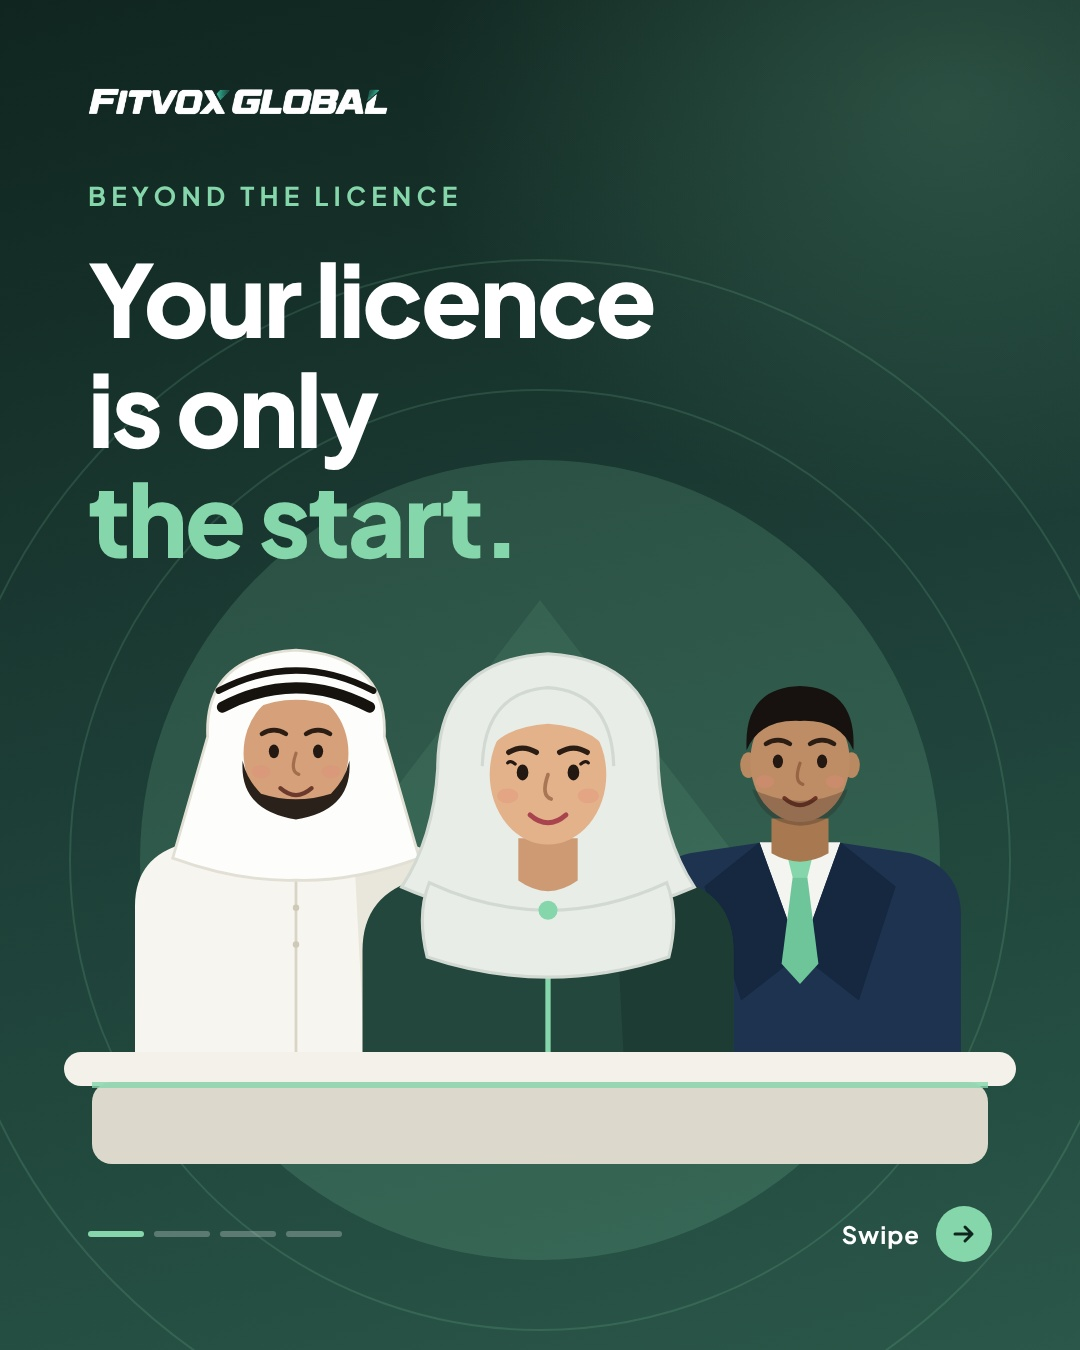
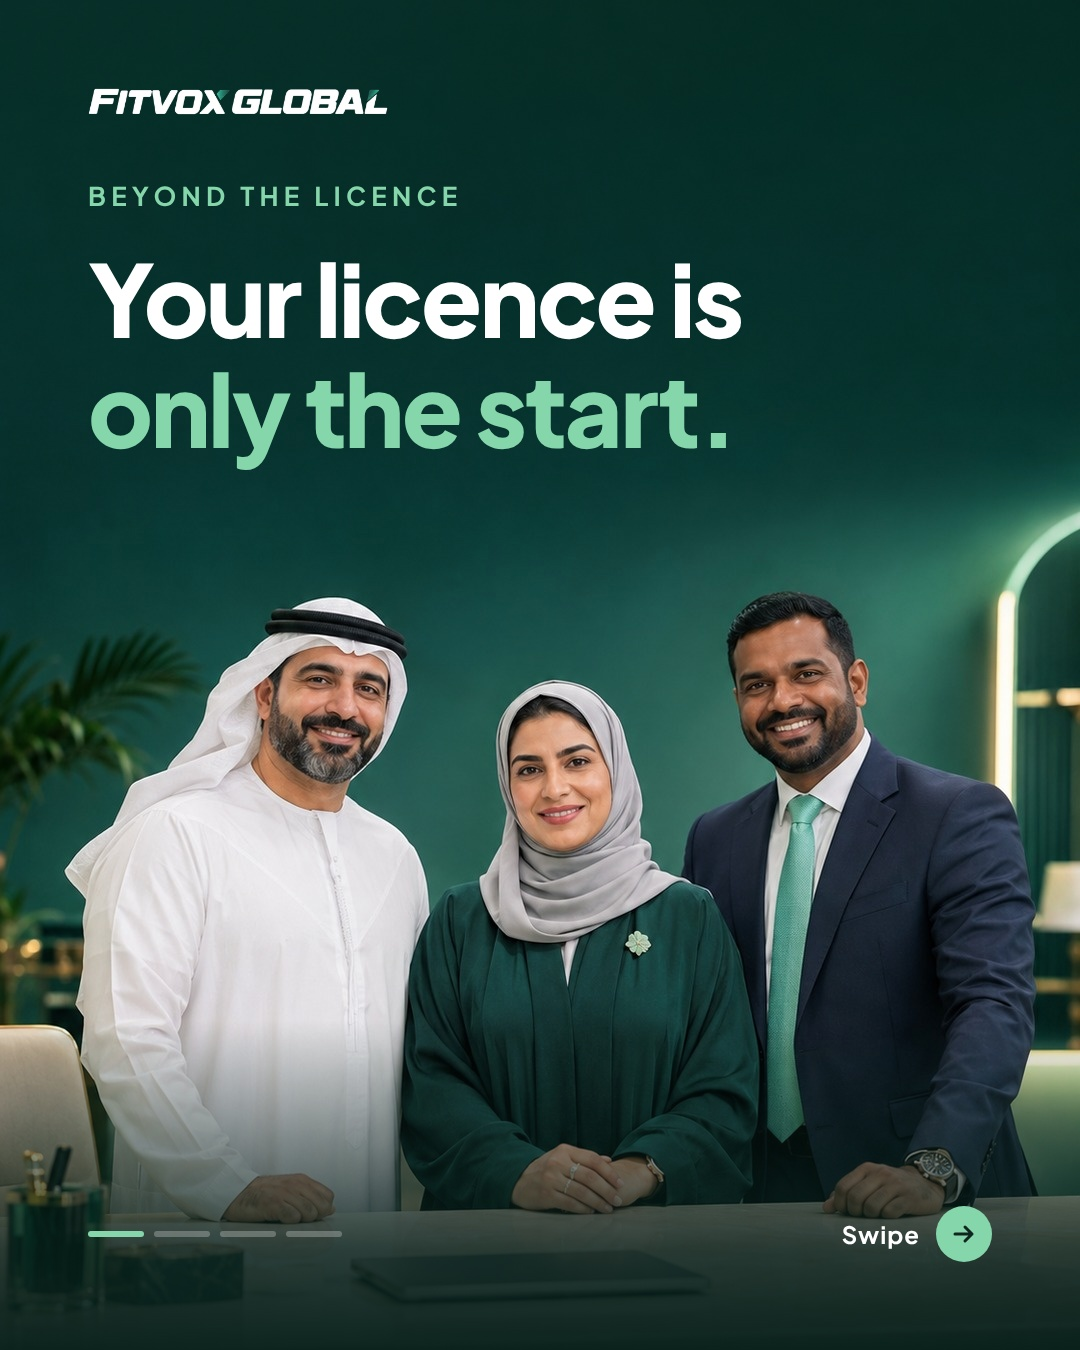
Carousel 1 with real photos, photo library and generator
Claude-Session: https://claude.ai/code/session_01Pm79EuhHfNqutMZLzzRwHC

diff --git a/tools/carousel/gen_photo_carousel_example.py b/tools/carousel/gen_photo_carousel_example.py
@@ -1,0 +1,186 @@
+import sys
+
+PROJ = '/home/claude/fitvox/project/'
+TOTAL = 4
+LOGO_W = '/_blob/f043bd966aa8244868feba590904b4f6'
+LOGO_D = '/_blob/3cb9a901f7c326e8ea2d3c40d5afad39'
+
+HEAD = '''<!doctype html>
+<html lang="en">
+<head>
+<meta charset="utf-8">
+<title>%(title)s</title>
+<script src="./support.js"></script>
+</head>
+<body>
+<x-dc>
+<helmet>
+<style>
+body{margin:0}
+</style>
+<link rel="preconnect" href="https://fonts.googleapis.com">
+<link rel="stylesheet" href="https://fonts.googleapis.com/css2?family=Plus+Jakarta+Sans:wght@500;700;800&amp;family=Montserrat:ital,wght@1,800&amp;display=swap">
+</helmet>
+'''
+TAIL = '''</x-dc>
+<script type="text/x-dc" data-dc-script data-props='%(props)s'>
+class Component extends DCLogic {
+renderVals() {
+return { accent: this.props.accent ?? '%(default)s' };
+}
+}
+</script>
+</body>
+</html>
+'''
+FONT = "font-family: 'Plus Jakarta Sans', system-ui, sans-serif"
+ROOT = {
+ 'dark': ("position: relative; overflow: hidden; width: 1080px; height: 1350px; box-sizing: border-box; padding: 88px; display: flex; flex-direction: column; justify-content: space-between; " + FONT + "; color: #ffffff; "
+          "background: radial-gradient(820px 640px at 88% 8%, rgba(134,214,171,0.20), rgba(134,214,171,0) 65%), linear-gradient(165deg, #10251F 0%, #1D3F37 52%, #2A5749 100%)"),
+ 'cream': ("position: relative; overflow: hidden; width: 1080px; height: 1350px; box-sizing: border-box; padding: 88px; display: flex; flex-direction: column; justify-content: space-between; " + FONT + "; color: #10251F; "
+           "background: radial-gradient(780px 620px at 92% 4%, rgba(134,214,171,0.42), rgba(134,214,171,0) 66%), linear-gradient(170deg, #F8F5EE 0%, #F1EDE3 100%)"),
+ 'mint': ("position: relative; overflow: hidden; width: 1080px; height: 1350px; box-sizing: border-box; padding: 88px; display: flex; flex-direction: column; justify-content: space-between; " + FONT + "; color: #0F2A22; "
+          "background: radial-gradient(760px 600px at 92% 4%, rgba(255,255,255,0.38), rgba(255,255,255,0) 66%), linear-gradient(165deg, #9DE3C0 0%, #86D6AB 55%, #74C99B 100%)"),
+}
+PROPS = {
+ 'dark': ('{"accent":{"editor":"color","default":"#86D6AB","options":["#86D6AB","#6FCF97","#B7F0CE"]},"$preview":{"width":1080,"height":1350}}', '#86D6AB'),
+ 'cream': ('{"accent":{"editor":"color","default":"#1B6B4B","options":["#1B6B4B","#2A7F5B","#0F5A3C"]},"$preview":{"width":1080,"height":1350}}', '#1B6B4B'),
+ 'mint': ('{"accent":{"editor":"color","default":"#14573C","options":["#14573C","#0F4A33","#1E6B4B"]},"$preview":{"width":1080,"height":1350}}', '#14573C'),
+}
+INK = {'dark': '255,255,255', 'cream': '16,37,31', 'mint': '15,42,34'}
+HEADC = {'dark': '#ffffff', 'cream': '#10251F', 'mint': '#0F2A22'}
+
+def logo(theme):
+    if theme == 'dark':
+        return '<div style="position: relative; display: flex; align-items: center"><img src="%s" alt="Fitvox Global" style="width: 300px; height: auto; display: block"></div>\n' % LOGO_W
+    return '<div style="position: relative; display: flex; align-items: center"><img data-logo="dark" src="%s" alt="Fitvox Global" style="width: 300px; height: auto; display: block"></div>\n' % LOGO_D
+
+def headline(theme, eyebrow, lines, accent_line, size=108):
+    h = '<br>'.join(lines[:-1] + ['<span style="color: {{accent}}">%s</span>' % lines[-1]]) if accent_line else '<br>'.join(lines)
+    return ('<div style="position: relative; display: flex; flex-direction: column; gap: 30px">'
+            '<div style="font-size: 26px; font-weight: 700; letter-spacing: 0.2em; text-transform: uppercase; color: {{accent}}">%s</div>'
+            '<h1 style="margin: 0; font-weight: 800; font-size: %dpx; line-height: 1.1; letter-spacing: -0.025em; color: %s">%s</h1></div>\n') % (eyebrow, size, HEADC[theme], h)
+
+def topblock(theme, eyebrow, lines, size=108, gap=64):
+    return ('<div style="position: relative; display: flex; flex-direction: column; gap: %dpx">\n' % gap) + logo(theme) + headline(theme, eyebrow, lines, True, size) + '</div>\n'
+
+def dashes(theme, cur):
+    off = 'rgba(%s,0.26)' % INK[theme]
+    d = ''.join('<div style="width: 56px; height: 6px; border-radius: 6px; background: %s"></div>' % ('{{accent}}' if i == cur else off) for i in range(1, TOTAL + 1))
+    return '<div style="display: flex; gap: 10px; align-items: center">%s</div>' % d
+
+ARROW = '<svg width="26" height="24" viewBox="0 0 26 24" fill="none" stroke="%s" stroke-width="3" stroke-linecap="round" stroke-linejoin="round"><path d="M4 12 H21 M14 5 L21 12 L14 19"/></svg>'
+
+def bottom(theme, cur, right=''):
+    return '<div style="position: relative; display: flex; justify-content: space-between; align-items: center; height: 56px">' + dashes(theme, cur) + right + '</div>\n'
+
+def swipe(theme):
+    col = '#ffffff' if theme == 'dark' else '#10251F'
+    return ('<div style="display: flex; align-items: center; gap: 16px"><div style="font-size: 24px; font-weight: 700; letter-spacing: 0.04em; color: %s">Swipe</div>'
+            '<div style="width: 56px; height: 56px; border-radius: 56px; background: {{accent}}; display: flex; align-items: center; justify-content: center">%s</div></div>') % (col, ARROW % ('#10251F' if theme == 'dark' else '#ffffff'))
+
+def sitetag(theme):
+    return '<div style="font-size: 26px; font-weight: 800; color: {{accent}}">fitvoxglobal.com</div>'
+
+def medallion(who, bg, ring='{{accent}}', s=0.58, hy=118):
+    # 280px circle with a character bust; placed top-right
+    origin = hy + 92 * s
+    return ('<svg aria-hidden="true" width="280" height="280" viewBox="0 0 280 280" style="position: absolute; right: 88px; top: 150px">'
+            '<defs><clipPath id="m"><circle cx="140" cy="140" r="138"/></clipPath></defs>'
+            '<circle cx="140" cy="140" r="138" fill="%s"/><g clip-path="url(#m)">%s</g>'
+            '<circle cx="140" cy="140" r="138" fill="none" stroke="%s" stroke-width="5"/></svg>\n') % (bg, char(who, 140, origin, s), ring)
+
+def page(theme, title, body, fname):
+    props, default = PROPS[theme]
+    html = (HEAD % {'title': title}) + '<div style="%s">\n' % ROOT[theme] + body + '</div>\n' + (TAIL % {'props': props, 'default': default})
+    open(PROJ + fname, 'w', encoding='utf-8').write(html)
+
+# ---------------- photo version ----------------
+PH = {
+ 'team': ('df423bf8d1f6a0106043d7562dbe02f6', 'photos/cast-team-cover.jpg'),
+ 'pair': ('0e5a85c6245063686d3229f2d3f7ce32', 'photos/cast-desk-pair.jpg'),
+ 'woman': ('a8457f56fa9762809a223c0980e46ce8', 'photos/cast-woman-portrait.jpg'),
+ 'man': ('5c95c681e6af30bed5c12ef0e9eb4dc4', 'photos/cast-man-portrait.jpg'),
+}
+ROOT['photo'] = ROOT['dark'].split('background:')[0] + 'background: linear-gradient(90deg, #0A3C34 0%, #052D28 100%)'
+PROPS['photo'] = PROPS['dark']
+
+def photo(key, style, alt):
+    b, l = PH[key]
+    return '<img src="/_blob/%s" data-local="%s" alt="%s" style="%s">' % (b, l, alt, style)
+
+def photo_medallion(key, ring, zoom, fx, fy, alt):
+    W = int(280 * zoom)
+    left = int(140 - fx * W)
+    top = min(0, int(135 - fy * W))
+    img = photo(key, 'position: absolute; left: %dpx; top: %dpx; width: %dpx; height: %dpx; display: block' % (left, top, W, W), alt)
+    return ('<div style="position: absolute; right: 88px; top: 150px; width: 280px; height: 280px; border-radius: 280px; overflow: hidden; background: #dfe9e4">' + img +
+            '<div style="position: absolute; left: 0; top: 0; width: 280px; height: 280px; box-sizing: border-box; border-radius: 280px; border: 5px solid %s"></div></div>\n') % ring
+
+def page2(root, theme_props, title, body, fname):
+    props, default = PROPS[theme_props]
+    html = (HEAD % {'title': title}) + '<div style="%s">\n' % ROOT[root] + body + '</div>\n' + (TAIL % {'props': props, 'default': default})
+    open(PROJ + fname, 'w', encoding='utf-8').write(html)
+
+BOTTOM_FADE = ('<div style="position: absolute; left: 0; bottom: 0; width: 1080px; height: 330px; background: linear-gradient(0deg, rgba(6,30,25,0.97) 0%, rgba(6,30,25,0.84) 30%, rgba(6,30,25,0.46) 62%, rgba(6,30,25,0) 100%)"></div>\n')
+
+# ---- Slide 1: cover (photo) ----
+cover_img = photo('team', 'position: absolute; left: 0; top: 0; width: 1080px; height: 1350px; object-fit: cover; display: block',
+                  'Three Fitvox Global business consultants smiling behind a consultation desk in a Dubai office')
+cover_top = '<div style="position: absolute; left: 0; top: 0; width: 1080px; height: 620px; background: linear-gradient(180deg, rgba(5,38,30,0.5) 0%, rgba(5,38,30,0) 100%)"></div>\n'
+body = cover_img + '\n' + cover_top + BOTTOM_FADE + topblock('dark', 'Beyond the licence', ['Your licence is', 'only the start.'], size=100, gap=64) + bottom('dark', 1, swipe('dark'))
+page2('photo', 'photo', 'Fitvox Global carousel – Beyond the licence (1/4)', body, '2026-11-29-1-beyond-licence-s1.dc.html')
+
+# ---- Slide 2: growth services (cream, woman portrait) ----
+def check_row(label, last=False):
+    return ('<div style="display: flex; align-items: center; gap: 28px; height: 104px; box-sizing: border-box; %s">'
+            '<div style="width: 52px; height: 52px; border-radius: 52px; background: #86D6AB; display: flex; align-items: center; justify-content: center">'
+            '<svg width="26" height="20" viewBox="0 0 26 20" fill="none" stroke="#10251F" stroke-width="4" stroke-linecap="round" stroke-linejoin="round"><path d="M3 10 L10 17 L23 3"/></svg></div>'
+            '<div style="font-size: 38px; font-weight: 700; color: #10251F">%s</div></div>\n') % ('' if last else 'border-bottom: 2px dashed rgba(16,37,31,0.2)', label)
+
+rows = ''.join(check_row(l, i == 4) for i, l in enumerate(['Marketing services', 'Social media management', 'E-commerce', 'Software development', 'Document clearing']))
+body = photo_medallion('woman', '{{accent}}', 1.3, 0.49, 0.30, 'Fitvox Global consultant smiling') + topblock('cream', 'Growth services', ['Grow with', 'one team.'], gap=64) + \
+       '<div style="position: relative; display: flex; flex-direction: column">' + rows + '</div>\n' + bottom('cream', 2, sitetag('cream'))
+page('cream', 'Fitvox Global carousel – Beyond the licence (2/4)', body, '2026-11-29-1-beyond-licence-s2.dc.html')
+
+# ---- Slide 3: essentials (mint, man portrait) ----
+ICONS = {
+ 'audit': '<circle cx="18" cy="18" r="11"/><path d="M26 26 L35 35"/><path d="M12 18 L16 22 L24 13"/>',
+ 'tax': '<path d="M31 9 L9 31"/><circle cx="13" cy="13" r="5"/><circle cx="27" cy="27" r="5"/>',
+ 'bank': '<path d="M5 15 L20 6 L35 15 Z"/><path d="M10 19 V30 M20 19 V30 M30 19 V30"/><path d="M5 34 H35"/>',
+ 'tm': '<path d="M20 4 L34 9 V20 C34 28 28 33 20 37 C12 33 6 28 6 20 V9 Z"/><text x="20" y="25" text-anchor="middle" font-size="11" font-weight="800" fill="#86D6AB" stroke="none" font-family="Plus Jakarta Sans, sans-serif">TM</text>',
+}
+def card(icon, label):
+    return ('<div style="flex: 1; box-sizing: border-box; height: 262px; padding: 34px; border-radius: 36px; background: rgba(248,246,240,0.94); display: flex; flex-direction: column; justify-content: space-between">'
+            '<div style="width: 76px; height: 76px; border-radius: 76px; background: #0F2A22; display: flex; align-items: center; justify-content: center">'
+            '<svg width="40" height="40" viewBox="0 0 40 40" fill="none" stroke="#86D6AB" stroke-width="3" stroke-linecap="round" stroke-linejoin="round">%s</svg></div>'
+            '<div style="font-size: 34px; line-height: 1.2; font-weight: 700; color: #0F2A22">%s</div></div>') % (ICONS[icon], label)
+grid = ('<div style="position: relative; display: flex; flex-direction: column; gap: 24px">'
+        '<div style="display: flex; gap: 24px">' + card('audit', 'Auditing') + card('tax', 'Corporate tax consulting') + '</div>'
+        '<div style="display: flex; gap: 24px">' + card('bank', 'Bank account opening') + card('tm', 'Trademark registration') + '</div></div>\n')
+body = photo_medallion('man', '#0F2A22', 1.25, 0.51, 0.33, 'Fitvox Global business advisor smiling') + topblock('mint', 'Business essentials', ['The basics,', 'covered.'], gap=64) + grid + bottom('mint', 3, sitetag('mint'))
+page('mint', 'Fitvox Global carousel – Beyond the licence (3/4)', body, '2026-11-29-1-beyond-licence-s3.dc.html')
+
+# ---- Slide 4: CTA (photo of the pair at the desk) ----
+ICO = {
+ 'globe': '<circle cx="20" cy="20" r="13"/><path d="M7 20 H33"/><ellipse cx="20" cy="20" rx="6" ry="13"/>',
+ 'mail': '<rect x="7" y="11" width="26" height="18" rx="3"/><path d="M7 14 L20 24 L33 14"/>',
+ 'phone': '<path d="M12 8 Q9 8 9.5 12.5 Q11 26 27.5 30.5 Q32 31 32 28 L32 25 L26 23 L24 26 Q18 23 15 17 L17 15 L15 9 Z"/>',
+}
+def contact(icon, text):
+    return ('<div style="display: flex; align-items: center; gap: 20px"><div style="width: 52px; height: 52px; border-radius: 52px; box-sizing: border-box; border: 2px solid rgba(134,214,171,0.6); background: rgba(6,40,33,0.55); display: flex; align-items: center; justify-content: center">'
+            '<svg width="28" height="28" viewBox="0 0 40 40" fill="none" stroke="#86D6AB" stroke-width="3" stroke-linecap="round" stroke-linejoin="round">%s</svg></div>'
+            '<div style="font-size: 30px; font-weight: 700; color: #ffffff">%s</div></div>') % (ICO[icon], text)
+pill = ('<div style="display: flex; align-items: center; justify-content: space-between; width: 610px; height: 88px; box-sizing: border-box; padding: 0 14px 0 38px; border-radius: 88px; background: #F6F5EF">'
+        '<div style="font-size: 32px; font-weight: 700; color: #10251F">Message us on WhatsApp</div>'
+        '<div style="width: 60px; height: 60px; border-radius: 60px; background: #10251F; display: flex; align-items: center; justify-content: center">' + (ARROW % '#ffffff') + '</div></div>')
+contacts = '<div style="display: flex; flex-direction: column; gap: 14px">' + contact('globe', 'fitvoxglobal.com') + contact('mail', 'info@fitvoxglobal.com') + contact('phone', '+971 55 527 8262') + '</div>'
+save = ('<div style="display: flex; align-items: center; gap: 14px"><svg width="22" height="28" viewBox="0 0 22 28" fill="none" stroke="#ffffff" stroke-width="3" stroke-linejoin="round"><path d="M3 3 H19 V25 L11 19 L3 25 Z"/></svg>'
+        '<div style="font-size: 24px; font-weight: 700; color: #ffffff">Save for later</div></div>')
+pair_img = photo('pair', 'position: absolute; left: 0; top: 180px; width: 1080px; height: 1350px; object-fit: cover; display: block',
+                 'Two Fitvox Global consultants at a desk with a laptop, ready to help')
+pair_top = '<div style="position: absolute; left: 0; top: 0; width: 1080px; height: 560px; background: linear-gradient(180deg, rgba(8,52,45,1) 0%, rgba(8,52,45,1) 34%, rgba(8,52,45,0) 100%)"></div>\n'
+head = '<div style="position: relative; display: flex; flex-direction: column; gap: 44px">' + topblock('dark', "Let’s talk", ["Let’s build", 'it together.'], size=100, gap=56) + pill + contacts + '</div>\n'
+body = pair_img + '\n' + pair_top + BOTTOM_FADE + head + bottom('dark', 4, save)
+page2('photo', 'photo', 'Fitvox Global carousel – Beyond the licence (4/4)', body, '2026-11-29-1-beyond-licence-s4.dc.html')
+print('photo slides written')

diff --git a/tools/render_poster.py b/tools/render_poster.py
@@ -5,6 +5,7 @@ Usage: python3 tools/render_poster.py <poster.dc.html> <out.jpg>
 
 Needs: python3 + playwright, /usr/bin/google-chrome, npm (for the two fonts).
 The logos come from assets/ in this repo (white wordmark; dark wordmark for light posters).
+Photos: an <img> with data-local="photos/<file>.jpg" is read from the photos/ folder of this repo.
 """
 import os
 import re
@@ -45,7 +46,12 @@ def main(src, out_jpg):
     # logo: white wordmark on dark posters, dark wordmark on light ones (img tag has data-logo="dark")
     def logo(mt):
         tag = mt.group(0)
-        path = LOGO_DARK if 'data-logo="dark"' in tag else LOGO
+        # photos: <img src="/_blob/ID" data-local="photos/file.jpg"> uses the file from this repo
+        lm = re.search(r'data-local="([^"]+)"', tag)
+        if lm:
+            path = os.path.join(ROOT, lm.group(1))
+        else:
+            path = LOGO_DARK if 'data-logo="dark"' in tag else LOGO
         return re.sub(r'src="/_blob/[0-9a-f]+"', 'src="file://%s"' % path, tag)
 
     inner = re.sub(r'<img[^>]*src="/_blob/[0-9a-f]+"[^>]*>', logo, inner)

diff --git a/README.md b/README.md
@@ -2,3 +2,6 @@
 ## Carousels (from 29 Nov 2026)
 Every post is a carousel of 3 to 5 slides, 1080x1350 each. Slide files are named `YYYY-MM-DD-N-topic-sK.jpg` (N = post number of the day, K = slide number) with one caption `YYYY-MM-DD-N-topic.txt`.
 `tools/carousel/chars.py` holds the illustrated character cast (`emirati`, `consultant`, `suit`) and `gen_carousel_example.py` shows how the first carousel was built.
+
+## Photos (from 28 Nov 2026)
+People in the slides are real-looking AI photos made by the owner in ChatGPT and kept in `photos/`: `cast-team-cover.jpg` (three people, cover), `cast-desk-pair.jpg` (two people at a desk, call to action), `cast-woman-portrait.jpg` and `cast-man-portrait.jpg` (square portraits for round badges). A slide uses a photo through `<img src="/_blob/ID" data-local="photos/<file>.jpg">`; the render script reads the file from this folder. `tools/carousel/gen_photo_carousel_example.py` shows how the first photo carousel was built. Captions of posts that use these photos end with "Images generated with AI."
